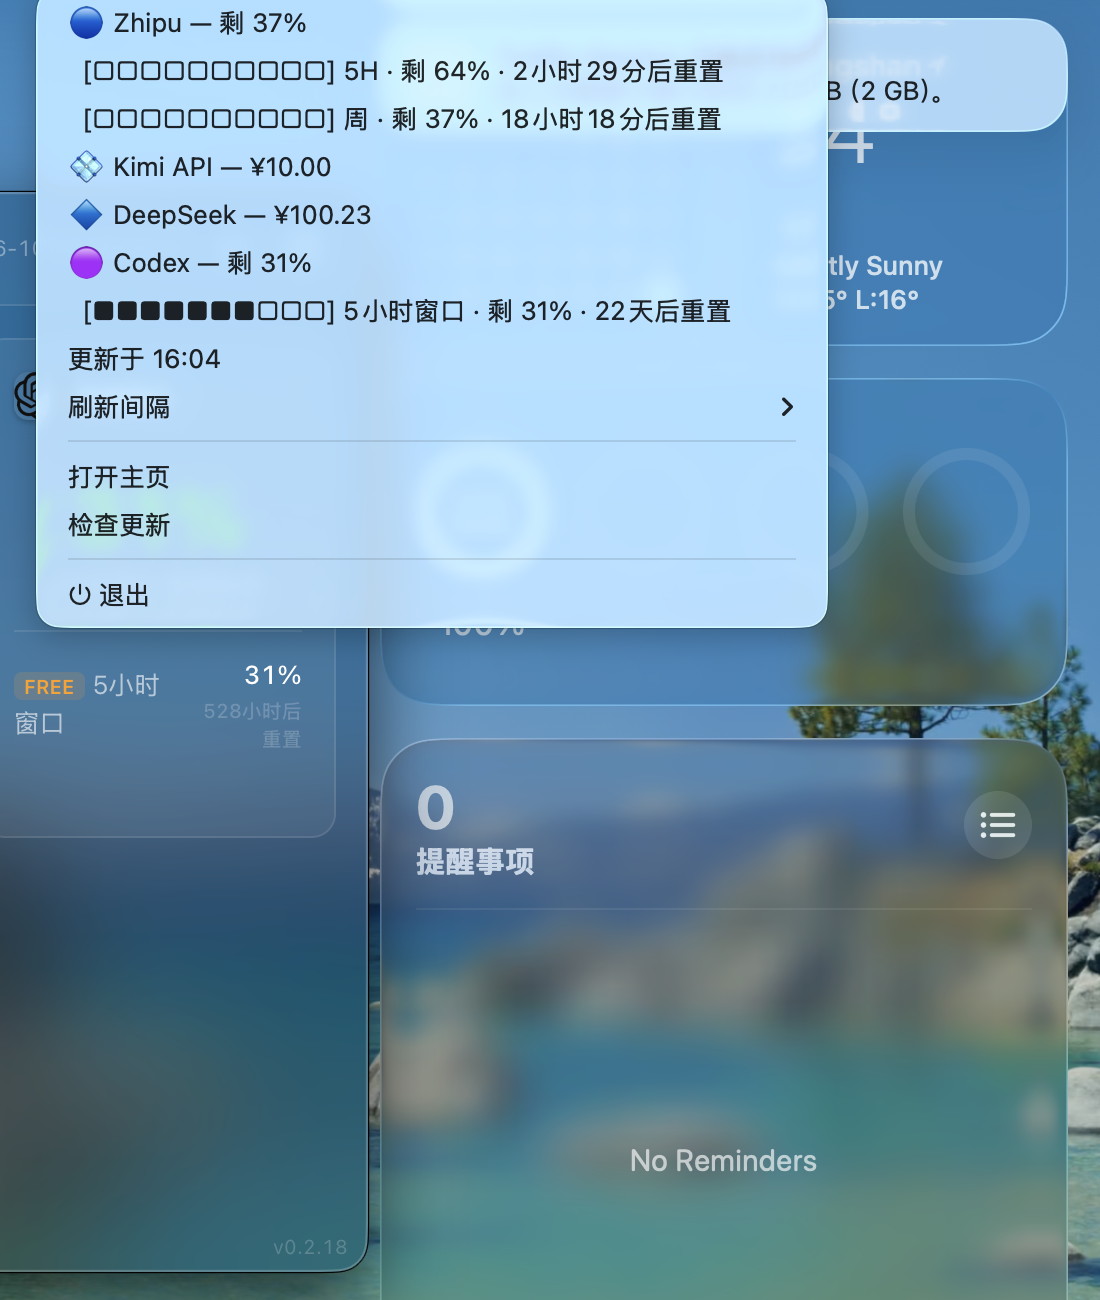
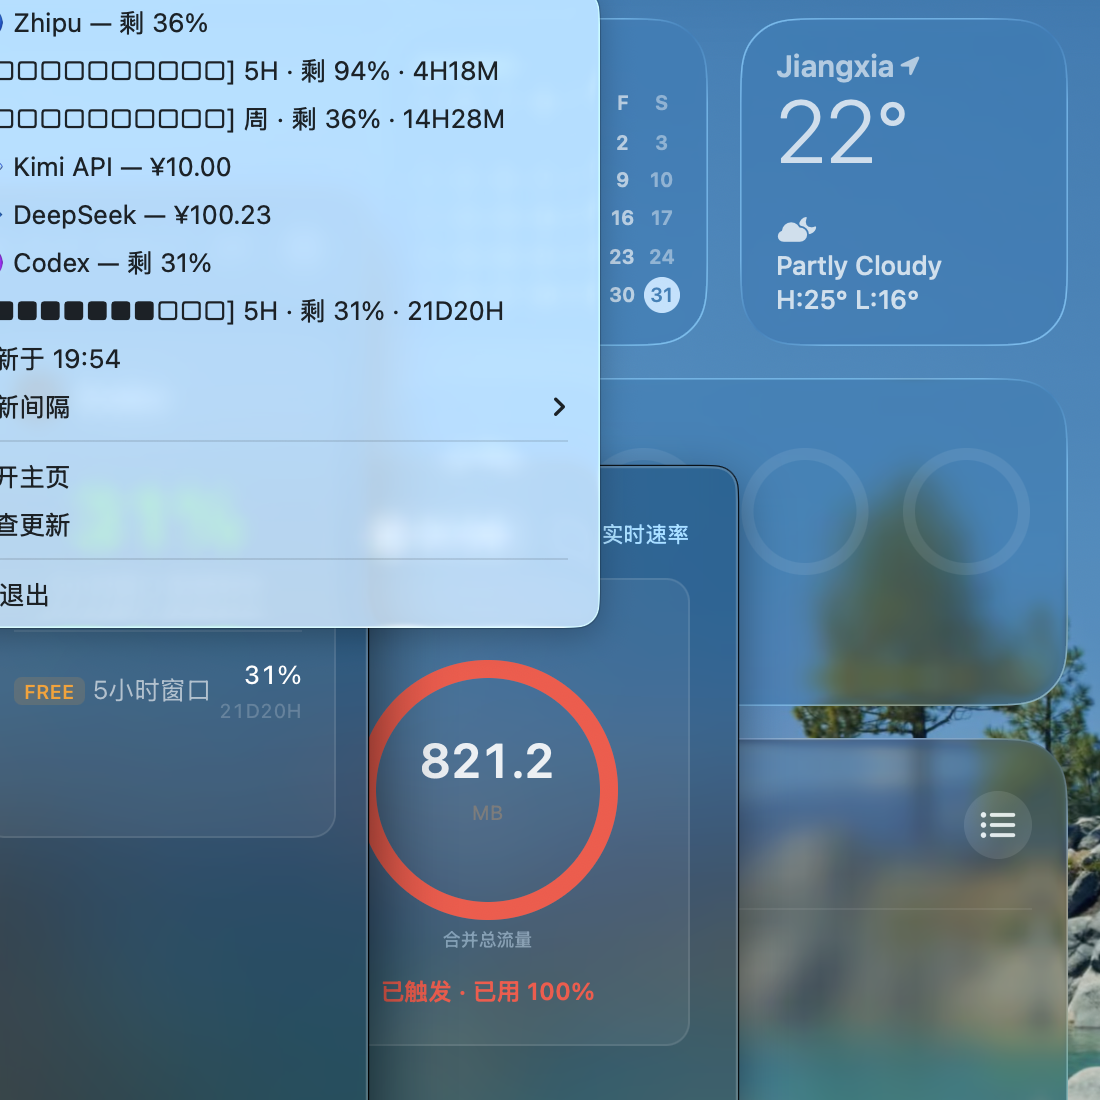
feat: 倒计时与窗口名紧凑化（5H/7D/1H24M/6D），进度条 ceil 让低用量可见
- countdown_compact 统一菜单与菜单栏：12M / 1H4M / 6D / 3D4H，去掉「小时/后重置」
- provider 层 format_iso_reset/format_reset_time 同输出紧凑格式（回退文本一致）
- 窗口名展示层紧凑化：5小时→5H、7天→7D、5小时窗口→5H、7天Opus→7D Opus
- progress_bar 实心格 ceil：用量 >0 即至少 1 格（round 会把 <5% 舍成 0 格，
  用户消耗后看不到进度反馈）

diff --git a/src-tauri/src/tray.rs b/src-tauri/src/tray.rs
@@ -158,57 +158,33 @@ pub fn reset_remaining(iso: &str, now: DateTime<Utc>) -> Option<chrono::Duration
     (d > chrono::Duration::zero()).then_some(d)
 }
 
-/// 菜单明细行倒计时（自然语言），输入为正时长
-pub fn countdown_menu(d: chrono::Duration) -> String {
+/// 紧凑倒计时（菜单与菜单栏共用）：分钟 M、小时 H、天 D，整单位省略低位。
+/// 如 12M / 1H4M / 6D / 3D4H。
+pub fn countdown_compact(d: chrono::Duration) -> String {
     let mins = d.num_minutes().max(1);
     if mins < 60 {
-        format!("{}分钟后重置", mins)
+        format!("{mins}M")
     } else if mins < 24 * 60 {
         let (h, m) = (mins / 60, mins % 60);
         if m == 0 {
-            format!("{}小时后重置", h)
+            format!("{h}H")
         } else {
-            format!("{}小时{}分后重置", h, m)
+            format!("{h}H{m}M")
         }
     } else {
         let hours = d.num_hours();
         let (days, h) = (hours / 24, hours % 24);
         if h == 0 {
-            format!("{}天后重置", days)
+            format!("{days}D")
         } else {
-            format!("{}天{}小时后重置", days, h)
+            format!("{days}D{h}H")
         }
     }
 }
 
-/// 菜单栏紧凑倒计时，输入为正时长
-pub fn countdown_compact(d: chrono::Duration) -> String {
-    let mins = d.num_minutes().max(1);
-    if mins < 60 {
-        format!("{}分", mins)
-    } else if mins < 24 * 60 {
-        format!("{}:{:02}", mins / 60, mins % 60)
-    } else {
-        format!("{}d", d.num_hours() / 24)
-    }
-}
-
-/// QuotaInfo 倒计时（菜单格式）：reset_at 能解析时精确换算——未过期格式化、
+/// QuotaInfo 倒计时（紧凑格式）：reset_at 能解析时精确换算——未过期格式化、
 /// 已过期省略（spec §5.4，不回退陈旧文本）；reset_at 缺失/解析失败才回退
-/// reset_time 原文
-pub fn quota_countdown_menu(q: &crate::models::QuotaInfo, now: DateTime<Utc>) -> Option<String> {
-    if let Some(iso) = q.reset_at.as_deref() {
-        if let Ok(dt) = iso.parse::<DateTime<Utc>>() {
-            let d = dt.signed_duration_since(now);
-            return (d > chrono::Duration::zero()).then(|| countdown_menu(d));
-        }
-    }
-    q.reset_time.clone()
-}
-
-/// QuotaInfo 倒计时（菜单栏紧凑格式）：同上回退策略
-/// 当前仅测试消费（紧凑菜单行未接入），非测试构建允许暂未使用。
-#[cfg_attr(not(test), allow(dead_code))]
+/// reset_time 原文（provider 层同样输出紧凑格式）
 pub fn quota_countdown_compact(q: &crate::models::QuotaInfo, now: DateTime<Utc>) -> Option<String> {
     if let Some(iso) = q.reset_at.as_deref() {
         if let Ok(dt) = iso.parse::<DateTime<Utc>>() {
@@ -888,27 +864,14 @@ mod countdown_tests {
     }
 
     #[test]
-    fn menu_format_boundaries() {
-        assert_eq!(countdown_menu(Duration::minutes(12)), "12分钟后重置");
-        assert_eq!(countdown_menu(Duration::minutes(60)), "1小时后重置");
-        assert_eq!(
-            countdown_menu(Duration::minutes(4 * 60 + 23)),
-            "4小时23分后重置"
-        );
-        assert_eq!(countdown_menu(Duration::hours(24)), "1天后重置");
-        assert_eq!(
-            countdown_menu(Duration::days(3) + Duration::hours(4)),
-            "3天4小时后重置"
-        );
-    }
-
-    #[test]
     fn compact_format_boundaries() {
-        assert_eq!(countdown_compact(Duration::minutes(12)), "12分");
-        assert_eq!(countdown_compact(Duration::minutes(4 * 60 + 23)), "4:23");
+        assert_eq!(countdown_compact(Duration::minutes(12)), "12M");
+        assert_eq!(countdown_compact(Duration::minutes(60)), "1H");
+        assert_eq!(countdown_compact(Duration::minutes(4 * 60 + 23)), "4H23M");
+        assert_eq!(countdown_compact(Duration::hours(24)), "1D");
         assert_eq!(
             countdown_compact(Duration::days(3) + Duration::hours(4)),
-            "3d"
+            "3D4H"
         );
     }
 
@@ -927,38 +890,26 @@ mod countdown_tests {
     fn quota_countdown_prefers_reset_at_then_falls_back() {
         let now = Utc.with_ymd_and_hms(2026, 10, 31, 12, 0, 0).unwrap();
         // reset_at 精确换算
-        let a = q(Some("2026-10-31T13:24:00Z"), Some("1小时后重置"));
-        assert_eq!(
-            quota_countdown_menu(&a, now).as_deref(),
-            Some("1小时24分后重置")
-        );
-        assert_eq!(quota_countdown_compact(&a, now).as_deref(), Some("1:24"));
-        // 无 reset_at 回退本地化文本；compact 回退同文本
-        let b = q(None, Some("12分钟后重置"));
-        assert_eq!(
-            quota_countdown_menu(&b, now).as_deref(),
-            Some("12分钟后重置")
-        );
+        let a = q(Some("2026-10-31T13:24:00Z"), Some("1H24M"));
+        assert_eq!(quota_countdown_compact(&a, now).as_deref(), Some("1H24M"));
+        // 无 reset_at 回退 reset_time 文本（provider 层同输出紧凑格式）
+        let b = q(None, Some("12M"));
+        assert_eq!(quota_countdown_compact(&b, now).as_deref(), Some("12M"));
         // 均无
-        assert_eq!(quota_countdown_menu(&q(None, None), now), None);
+        assert_eq!(quota_countdown_compact(&q(None, None), now), None);
     }
 
     #[test]
     fn quota_countdown_expired_reset_at_omits_without_fallback() {
         let now = Utc.with_ymd_and_hms(2026, 10, 31, 12, 0, 0).unwrap();
         // reset_at 已过期：按 spec §5.4「已过期→省略」，不回退陈旧 reset_time 文本
-        let expired = q(Some("2026-10-31T11:00:00Z"), Some("12分钟后重置"));
-        assert_eq!(quota_countdown_menu(&expired, now), None);
+        let expired = q(Some("2026-10-31T11:00:00Z"), Some("12M"));
         assert_eq!(quota_countdown_compact(&expired, now), None);
         // reset_at 解析失败：回退 reset_time 文本（与缺失同路）
-        let unparseable = q(Some("garbage"), Some("12分钟后重置"));
-        assert_eq!(
-            quota_countdown_menu(&unparseable, now).as_deref(),
-            Some("12分钟后重置")
-        );
+        let unparseable = q(Some("garbage"), Some("12M"));
         assert_eq!(
             quota_countdown_compact(&unparseable, now).as_deref(),
-            Some("12分钟后重置")
+            Some("12M")
         );
     }
 }

diff --git a/src-tauri/src/scheduler.rs b/src-tauri/src/scheduler.rs
@@ -13,8 +13,10 @@ use tokio::time::Duration;
 /// 生成 Unicode 进度条，如 [■■■■□□□□□□]（实心=已用，空心=未用）。
 /// 空位用 □ 而非 ░：░ 在亮色菜单上近乎隐形（低用量时整条进度条消失），
 /// □ 的描边在明暗两种外观下均可辨识，且与实心块等宽对齐。
+/// 实心格数向上取整：只要有用量就至少亮 1 格（round 会把 <5% 全部舍成 0 格，
+/// 用户消耗后看不到任何进度反馈）。
 fn progress_bar(percent: f64, width: usize) -> String {
-    let filled = (percent / 100.0 * width as f64).round() as usize;
+    let filled = (percent / 100.0 * width as f64).ceil() as usize;
     let filled = filled.min(width);
     let empty = width.saturating_sub(filled);
     format!("[{}{}]", "■".repeat(filled), "□".repeat(empty))
@@ -60,6 +62,19 @@ pub(crate) struct ProviderMenuBlock {
 /// 明细行缩进（NSMenu 同级项无层级，用文本缩进模拟从属关系）
 const DETAIL_INDENT: &str = "  ";
 
+/// 配额窗口名紧凑化：5小时→5H、7天→7D、5小时窗口→5H、7天Opus→7D Opus。
+/// 「订阅余额」等无单位词的名称原样保留。
+fn short_window(name: &str) -> String {
+    name.replace("小时窗口", "H")
+        .replace("天窗口", "D")
+        .replace("小时", "H")
+        .replace("天Opus", "D Opus")
+        .replace("天Sonnet", "D Sonnet")
+        .replace("天", "D")
+        .replace("每周", "W")
+        .replace("窗口", "")
+}
+
 /// 单个 quota 窗口的菜单明细行：进度条前置（多窗口时条形纵向对齐）
 fn quota_line(q: &QuotaInfo, now: DateTime<Utc>) -> String {
     let used_pct = if q.total > 0.0 {
@@ -68,14 +83,15 @@ fn quota_line(q: &QuotaInfo, now: DateTime<Utc>) -> String {
         0.0
     };
     let bar = progress_bar(used_pct, 10);
-    match crate::tray::quota_countdown_menu(q, now) {
+    let name = short_window(&q.name);
+    match crate::tray::quota_countdown_compact(q, now) {
         Some(cd) => format!(
             "{DETAIL_INDENT}{} {} · 剩 {:.0}% · {}",
-            bar, q.name, q.remaining_percent, cd
+            bar, name, q.remaining_percent, cd
         ),
         None => format!(
             "{DETAIL_INDENT}{} {} · 剩 {:.0}%",
-            bar, q.name, q.remaining_percent
+            bar, name, q.remaining_percent
         ),
     }
 }
@@ -1003,13 +1019,10 @@ mod tests {
         // 标题 = 身份徽章 + 别名 + 主窗口剩余；明细 = 全部窗口平铺（保持接口顺序）
         assert_eq!(block.title, "🟠 Max工作 — 剩 62%");
         assert_eq!(block.details.len(), 3);
-        assert_eq!(
-            block.details[0],
-            "  [■■■■□□□□□□] 5小时 · 剩 62% · 1小时24分后重置"
-        );
+        assert_eq!(block.details[0], "  [■■■■□□□□□□] 5H · 剩 62% · 1H24M");
         assert!(block.details[1].starts_with("  [■"));
-        assert!(block.details[1].contains("7天 · 剩 81%"));
-        assert!(block.details[2].contains("7天Opus · 剩 95%"));
+        assert!(block.details[1].contains("7D · 剩 81% · 3D12H"));
+        assert!(block.details[2].contains("7D Opus · 剩 95%"));
     }
 
     #[test]

diff --git a/src-tauri/src/providers/kimi_code.rs b/src-tauri/src/providers/kimi_code.rs
@@ -220,21 +220,16 @@ impl KimiCodeProvider {
     }
 }
 
-/// 将 ISO 8601 时间字符串转换为相对时间描述。
+/// 将 ISO 8601 时间字符串转换为紧凑倒计时（12M / 1H4M / 6D，与展示层同格式）。
 fn format_iso_reset(iso: &str) -> String {
     use chrono::{DateTime, Utc};
     match iso.parse::<DateTime<Utc>>() {
         Ok(dt) => {
-            let now = Utc::now();
-            let duration = dt.signed_duration_since(now);
-            if duration.num_days() > 0 {
-                format!("{}天后重置", duration.num_days())
-            } else if duration.num_hours() > 0 {
-                format!("{}小时后重置", duration.num_hours())
-            } else if duration.num_minutes() > 0 {
-                format!("{}分钟后重置", duration.num_minutes())
+            let duration = dt.signed_duration_since(Utc::now());
+            if duration > chrono::Duration::zero() {
+                crate::tray::countdown_compact(duration)
             } else {
-                "即将重置".to_string()
+                "0M".to_string()
             }
         }
         Err(_) => iso.to_string(),
@@ -371,7 +366,7 @@ mod tests {
         use chrono::Utc;
         let future = (Utc::now() + chrono::Duration::days(5)).to_rfc3339();
         let result = format_iso_reset(&future);
-        assert!(result.contains("天后重置"), "got: {}", result);
+        assert!(result.contains("D"), "got: {}", result);
     }
 
     #[test]
@@ -379,7 +374,7 @@ mod tests {
         use chrono::Utc;
         let future = (Utc::now() + chrono::Duration::minutes(45)).to_rfc3339();
         let result = format_iso_reset(&future);
-        assert!(result.contains("分钟后重置"), "got: {}", result);
+        assert!(result.contains("M"), "got: {}", result);
     }
 
     #[test]

diff --git a/src-tauri/src/providers/claude_code.rs b/src-tauri/src/providers/claude_code.rs
@@ -194,21 +194,16 @@ impl ClaudeCodeProvider {
     }
 }
 
-/// 将 ISO 8601 时间字符串转换为相对时间描述。
+/// 将 ISO 8601 时间字符串转换为紧凑倒计时（12M / 1H4M / 6D，与展示层同格式）。
 fn format_iso_reset(iso: &str) -> String {
     use chrono::{DateTime, Utc};
     match iso.parse::<DateTime<Utc>>() {
         Ok(dt) => {
-            let now = Utc::now();
-            let duration = dt.signed_duration_since(now);
-            if duration.num_days() > 0 {
-                format!("{}天后重置", duration.num_days())
-            } else if duration.num_hours() > 0 {
-                format!("{}小时后重置", duration.num_hours())
-            } else if duration.num_minutes() > 0 {
-                format!("{}分钟后重置", duration.num_minutes())
+            let duration = dt.signed_duration_since(Utc::now());
+            if duration > chrono::Duration::zero() {
+                crate::tray::countdown_compact(duration)
             } else {
-                "即将重置".to_string()
+                "0M".to_string()
             }
         }
         Err(_) => iso.to_string(),
@@ -341,7 +336,7 @@ mod tests {
         use chrono::Utc;
         let future = (Utc::now() + chrono::Duration::days(3)).to_rfc3339();
         let result = format_iso_reset(&future);
-        assert!(result.contains("天后重置"), "got: {}", result);
+        assert!(result.contains("D"), "got: {}", result);
     }
 
     #[test]
@@ -349,7 +344,7 @@ mod tests {
         use chrono::Utc;
         let future = (Utc::now() + chrono::Duration::hours(4)).to_rfc3339();
         let result = format_iso_reset(&future);
-        assert!(result.contains("小时后重置"), "got: {}", result);
+        assert!(result.contains("H"), "got: {}", result);
     }
 
     #[test]

diff --git a/src-tauri/src/providers/codex.rs b/src-tauri/src/providers/codex.rs
@@ -188,20 +188,17 @@ impl CodexProvider {
     }
 }
 
-/// 将 Unix 时间戳转换为相对时间描述（如 "2小时后重置"）。
+/// 将 Unix 时间戳转换为紧凑倒计时（12M / 1H4M / 6D，与展示层同格式）。
 fn format_reset_time(reset_at: i64) -> String {
     use chrono::{DateTime, Utc};
     let reset_dt = DateTime::<Utc>::from_timestamp(reset_at, 0);
     match reset_dt {
         Some(dt) => {
-            let now = Utc::now();
-            let duration = dt.signed_duration_since(now);
-            if duration.num_hours() > 0 {
-                format!("{}小时后重置", duration.num_hours())
-            } else if duration.num_minutes() > 0 {
-                format!("{}分钟后重置", duration.num_minutes())
+            let duration = dt.signed_duration_since(Utc::now());
+            if duration > chrono::Duration::zero() {
+                crate::tray::countdown_compact(duration)
             } else {
-                "即将重置".to_string()
+                "0M".to_string()
             }
         }
         None => String::new(),
@@ -361,7 +358,7 @@ mod tests {
         use chrono::Utc;
         let future_ts = Utc::now().timestamp() + 7200;
         let result = format_reset_time(future_ts);
-        assert!(result.contains("小时后重置"), "got: {}", result);
+        assert!(result.contains("H"), "got: {}", result);
     }
 
     #[test]
@@ -369,7 +366,7 @@ mod tests {
         use chrono::Utc;
         let future_ts = Utc::now().timestamp() + 1800;
         let result = format_reset_time(future_ts);
-        assert!(result.contains("分钟后重置"), "got: {}", result);
+        assert!(result.contains("M"), "got: {}", result);
     }
 
     #[test]
